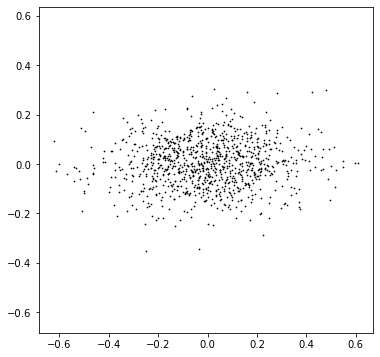
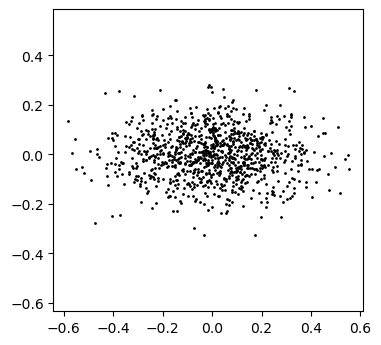
Format sampling plot better and close figure

diff --git a/examples/sampling_example.py b/examples/sampling_example.py
@@ -15,7 +15,8 @@ ubs = [ 1.0,  1.0]
 
 xy = rejection_sample(pdf, N, lbs, ubs, pdf_max = maxval)
 
-plt.figure(figsize=(6,6))
-plt.scatter(xy[:,0], xy[:,1], c="black", s=0.5)
+plt.figure(figsize=(4,4), dpi=100)
+plt.scatter(xy[:,0], xy[:,1], c="black", s=1)
 plt.axis("equal")
 plt.savefig("gaussian_2d_samples.png", bbox_inches="tight")
+plt.close()

diff --git a/sampling/README.md b/sampling/README.md
@@ -25,11 +25,11 @@ ubs = [ 1.0,  1.0]
 
 xy = rejection_sample(pdf, N, lbs, ubs, pdf_max = maxval)
 
-plt.figure(figsize=(6,6))
-plt.scatter(xy[:,0], xy[:,1], c="black", s=0.5)
+plt.figure(figsize=(4,4), dpi=100)
+plt.scatter(xy[:,0], xy[:,1], c="black", s=1)
 plt.axis("equal")
 plt.savefig("gaussian_2d_samples.png", bbox_inches="tight")
-
+plt.close()
 ```
 
 This produces the following image:
